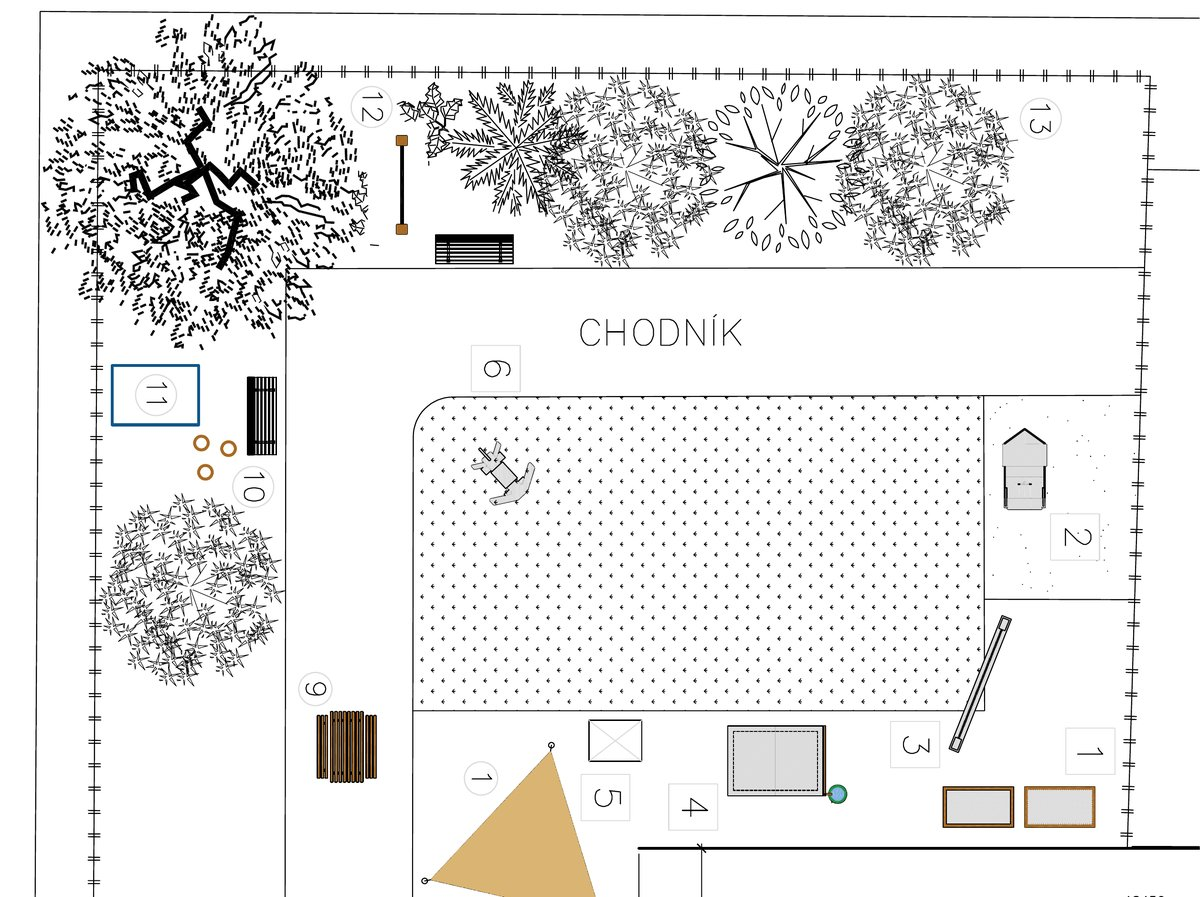
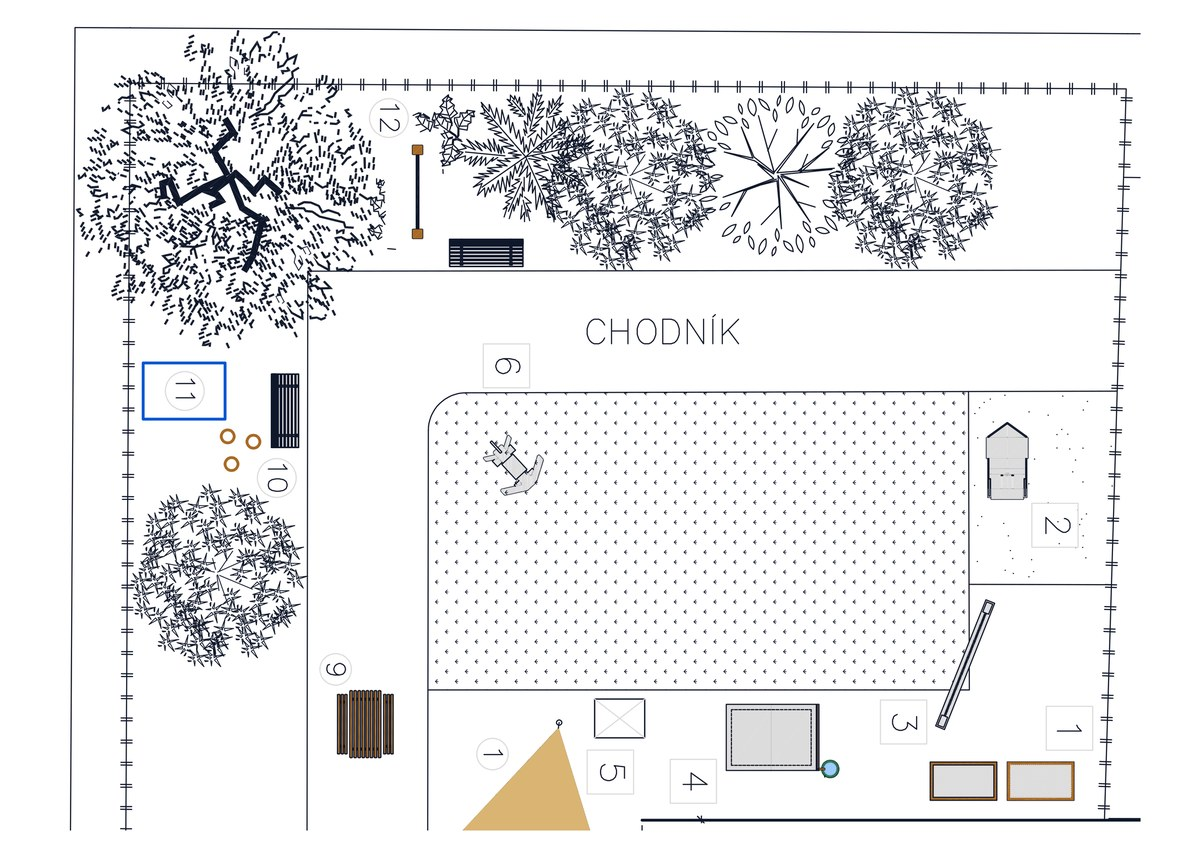
Zahrada MŠ: graficky upravené výkresy s legendou
Claude-Session: https://claude.ai/code/session_01LBeTq8AVEKTem9djy3P167

Changed region(s): [[0.0308, 0.0, 1.0, 1.0], [0.555, 0.0, 0.6167, 0.0307], [0.4008, 0.0, 0.4625, 0.0307]]

diff --git a/zakazka-zahrada-skolky.html b/zakazka-zahrada-skolky.html
@@ -2803,7 +2803,7 @@ header.scrolled {
         <div class="gallery-album reveal">
             <div class="gallery-grid gallery-grid-center">
                     <button class="gallery-item"><img src="foto/skolka-pudorys.jpg" alt="Modernizace zahrady mateřské školy, Most – půdorys zahrady 1 : 100" loading="lazy" onerror="this.parentElement.remove()"><span class="gallery-caption">Půdorys zahrady</span></button>
-                    <button class="gallery-item"><img src="foto/skolka.jpg" alt="Modernizace zahrady mateřské školy, Most – detail herní plochy a nových prvků" loading="lazy" onerror="this.parentElement.remove()"><span class="gallery-caption">Detail herní plochy</span></button>
+                    <button class="gallery-item"><img src="foto/skolka-detail.jpg" alt="Modernizace zahrady mateřské školy, Most – detail herní plochy a nových prvků" loading="lazy" onerror="this.parentElement.remove()"><span class="gallery-caption">Detail herní plochy</span></button>
             </div>
         </div>
 

diff --git a/en/zakazka-zahrada-skolky.html b/en/zakazka-zahrada-skolky.html
@@ -2803,7 +2803,7 @@ header.scrolled {
         <div class="gallery-album reveal">
             <div class="gallery-grid gallery-grid-center">
                     <button class="gallery-item"><img src="../foto/skolka-pudorys.jpg" alt="Kindergarten garden modernisation, Most – garden plan 1:100" loading="lazy" onerror="this.parentElement.remove()"><span class="gallery-caption">Garden plan</span></button>
-                    <button class="gallery-item"><img src="../foto/skolka.jpg" alt="Kindergarten garden modernisation, Most – detail of the play area and new features" loading="lazy" onerror="this.parentElement.remove()"><span class="gallery-caption">Play area detail</span></button>
+                    <button class="gallery-item"><img src="../foto/skolka-detail.jpg" alt="Kindergarten garden modernisation, Most – detail of the play area and new features" loading="lazy" onerror="this.parentElement.remove()"><span class="gallery-caption">Play area detail</span></button>
             </div>
         </div>
 
